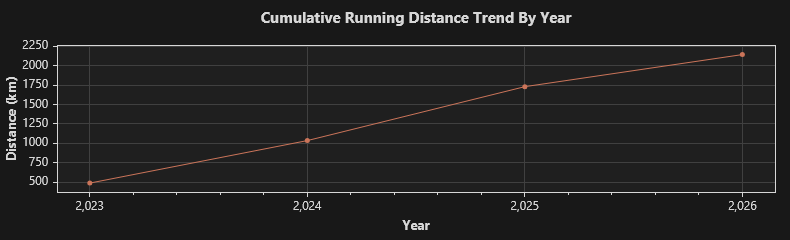
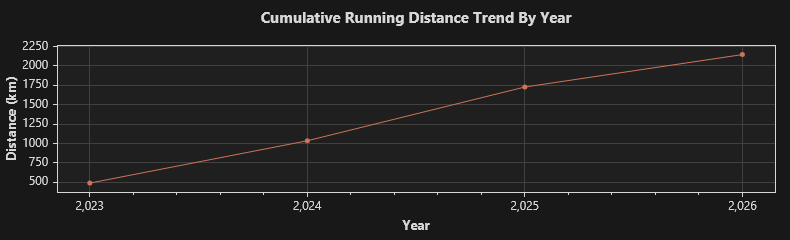
2026/8/12 跑步 6.13 公里

diff --git a/trend.md b/trend.md
@@ -1,4 +1,4 @@
-### Total: 364 days, 2140.46 km.
+### Total: 365 days, 2146.5900000000001455191522837 km.
 
 
 ![Monthly](https://github.com/prime167/MyRunningLog/blob/main/data/CumulativeTrendByMonth.png)
